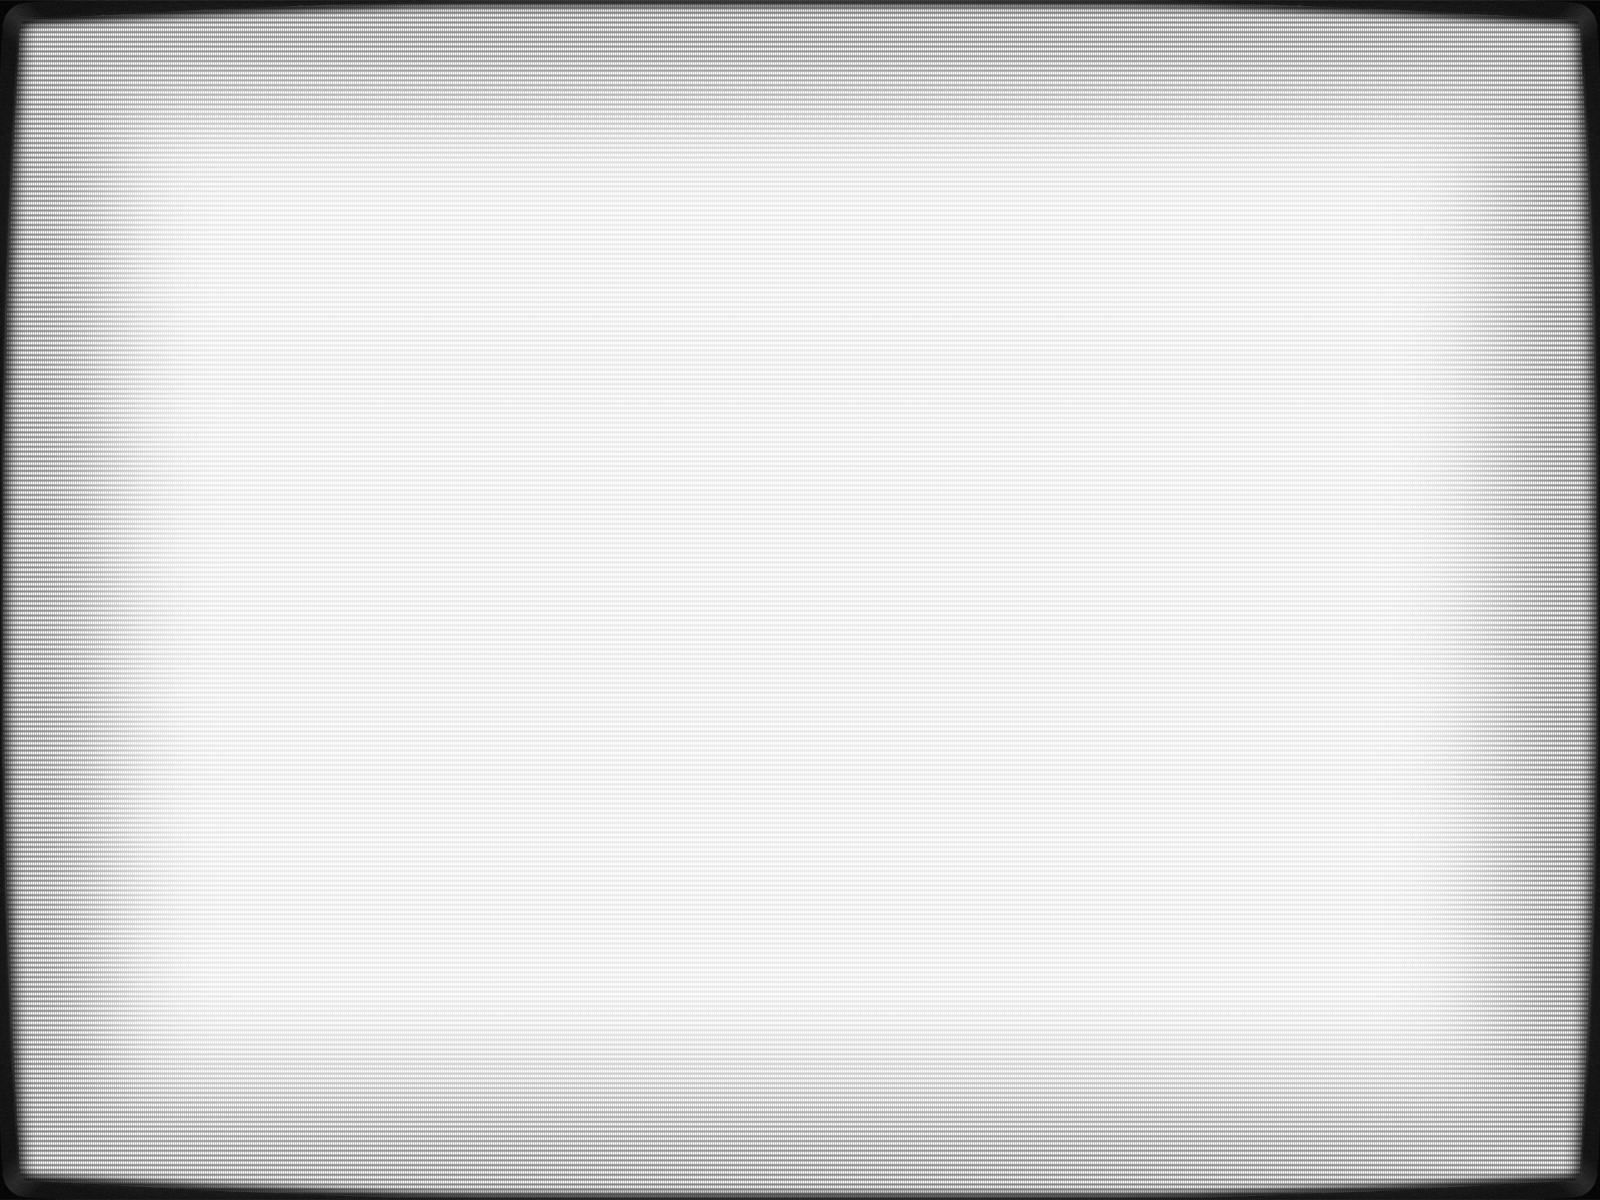
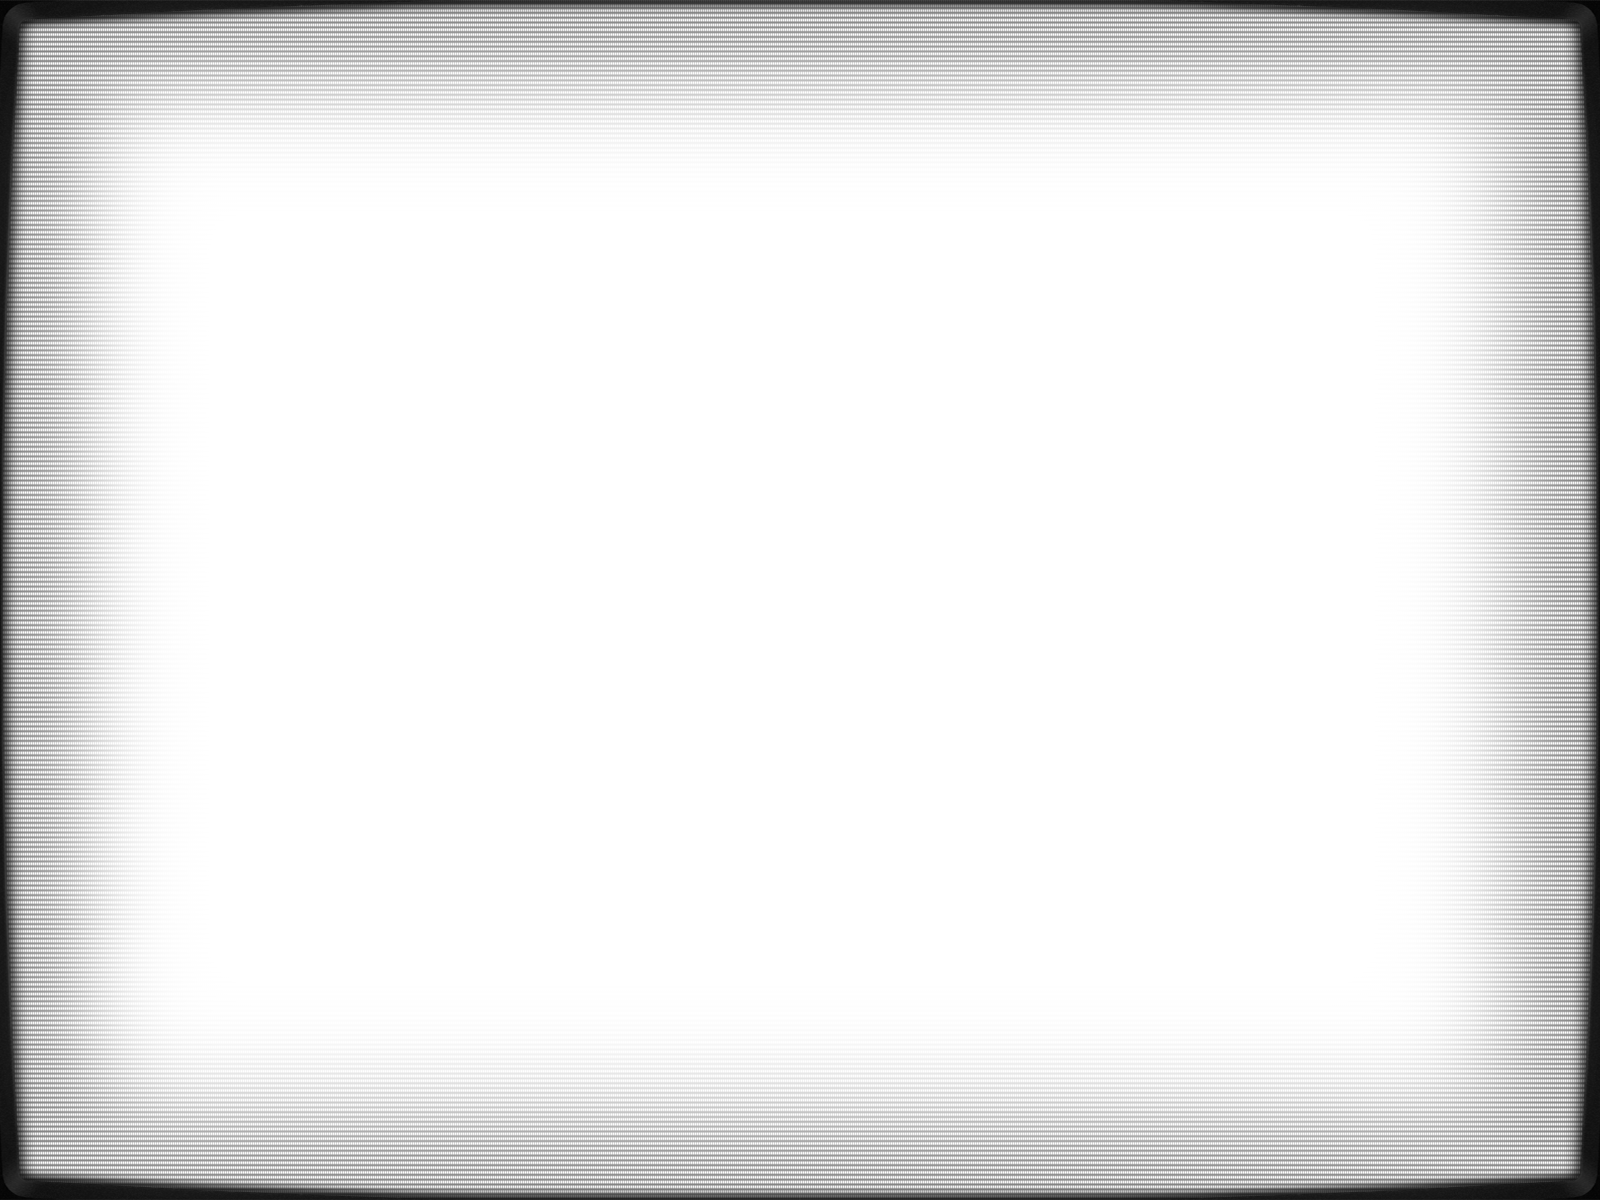
lightened scanlines. Added cursor.

Changed region(s): [[0.0312, 0.0617, 0.9375, 0.925]]

diff --git a/restraint-app/index.html b/restraint-app/index.html
@@ -430,11 +430,13 @@
         $d.html(chars);
 
         $d.find('span').each(function(i){
-          $(this).css({opacity:0}).delay(delay+i*50).animate({opacity:1},10);
+
+          $(this).css({opacity:0,background:'orange'}).delay(delay+i*50).animate({opacity:1},40,function(){
+            $(this).css({background:'transparent'});
+          });
         });
 
         setTimeout(function(){
-          
           var utter = new SpeechSynthesisUtterance(text);
           utter.voice = synth.getVoices()[0];
           synth.speak(utter);
@@ -491,7 +493,7 @@
            $('.summary-box').css({opacity:0,height:0}).delay(1000).animate({opacity:1,height:310})
         } else if($s.is('.screen-intro')){
 
-          var delay = 0;
+          var delay = 500;
           $s.find('p').each(function(){
 
             delay += doAnimatedType($(this),delay) + 1000;
@@ -559,7 +561,7 @@
       <!--div class="layer" style="background-position:570px;mix-blend-mode: difference;background-image: url(./spinning-globe-white.gif);"></div-->
 
       <div class="layer" style="padding: 50px;text-align: center;">
-        <br><br><br><br><br>
+        <br><br>
         <div class="box">
          
           <img width="90"style="vertical-align:middle;display: inline-block;" src='./water-dollar-symbol.png'>
